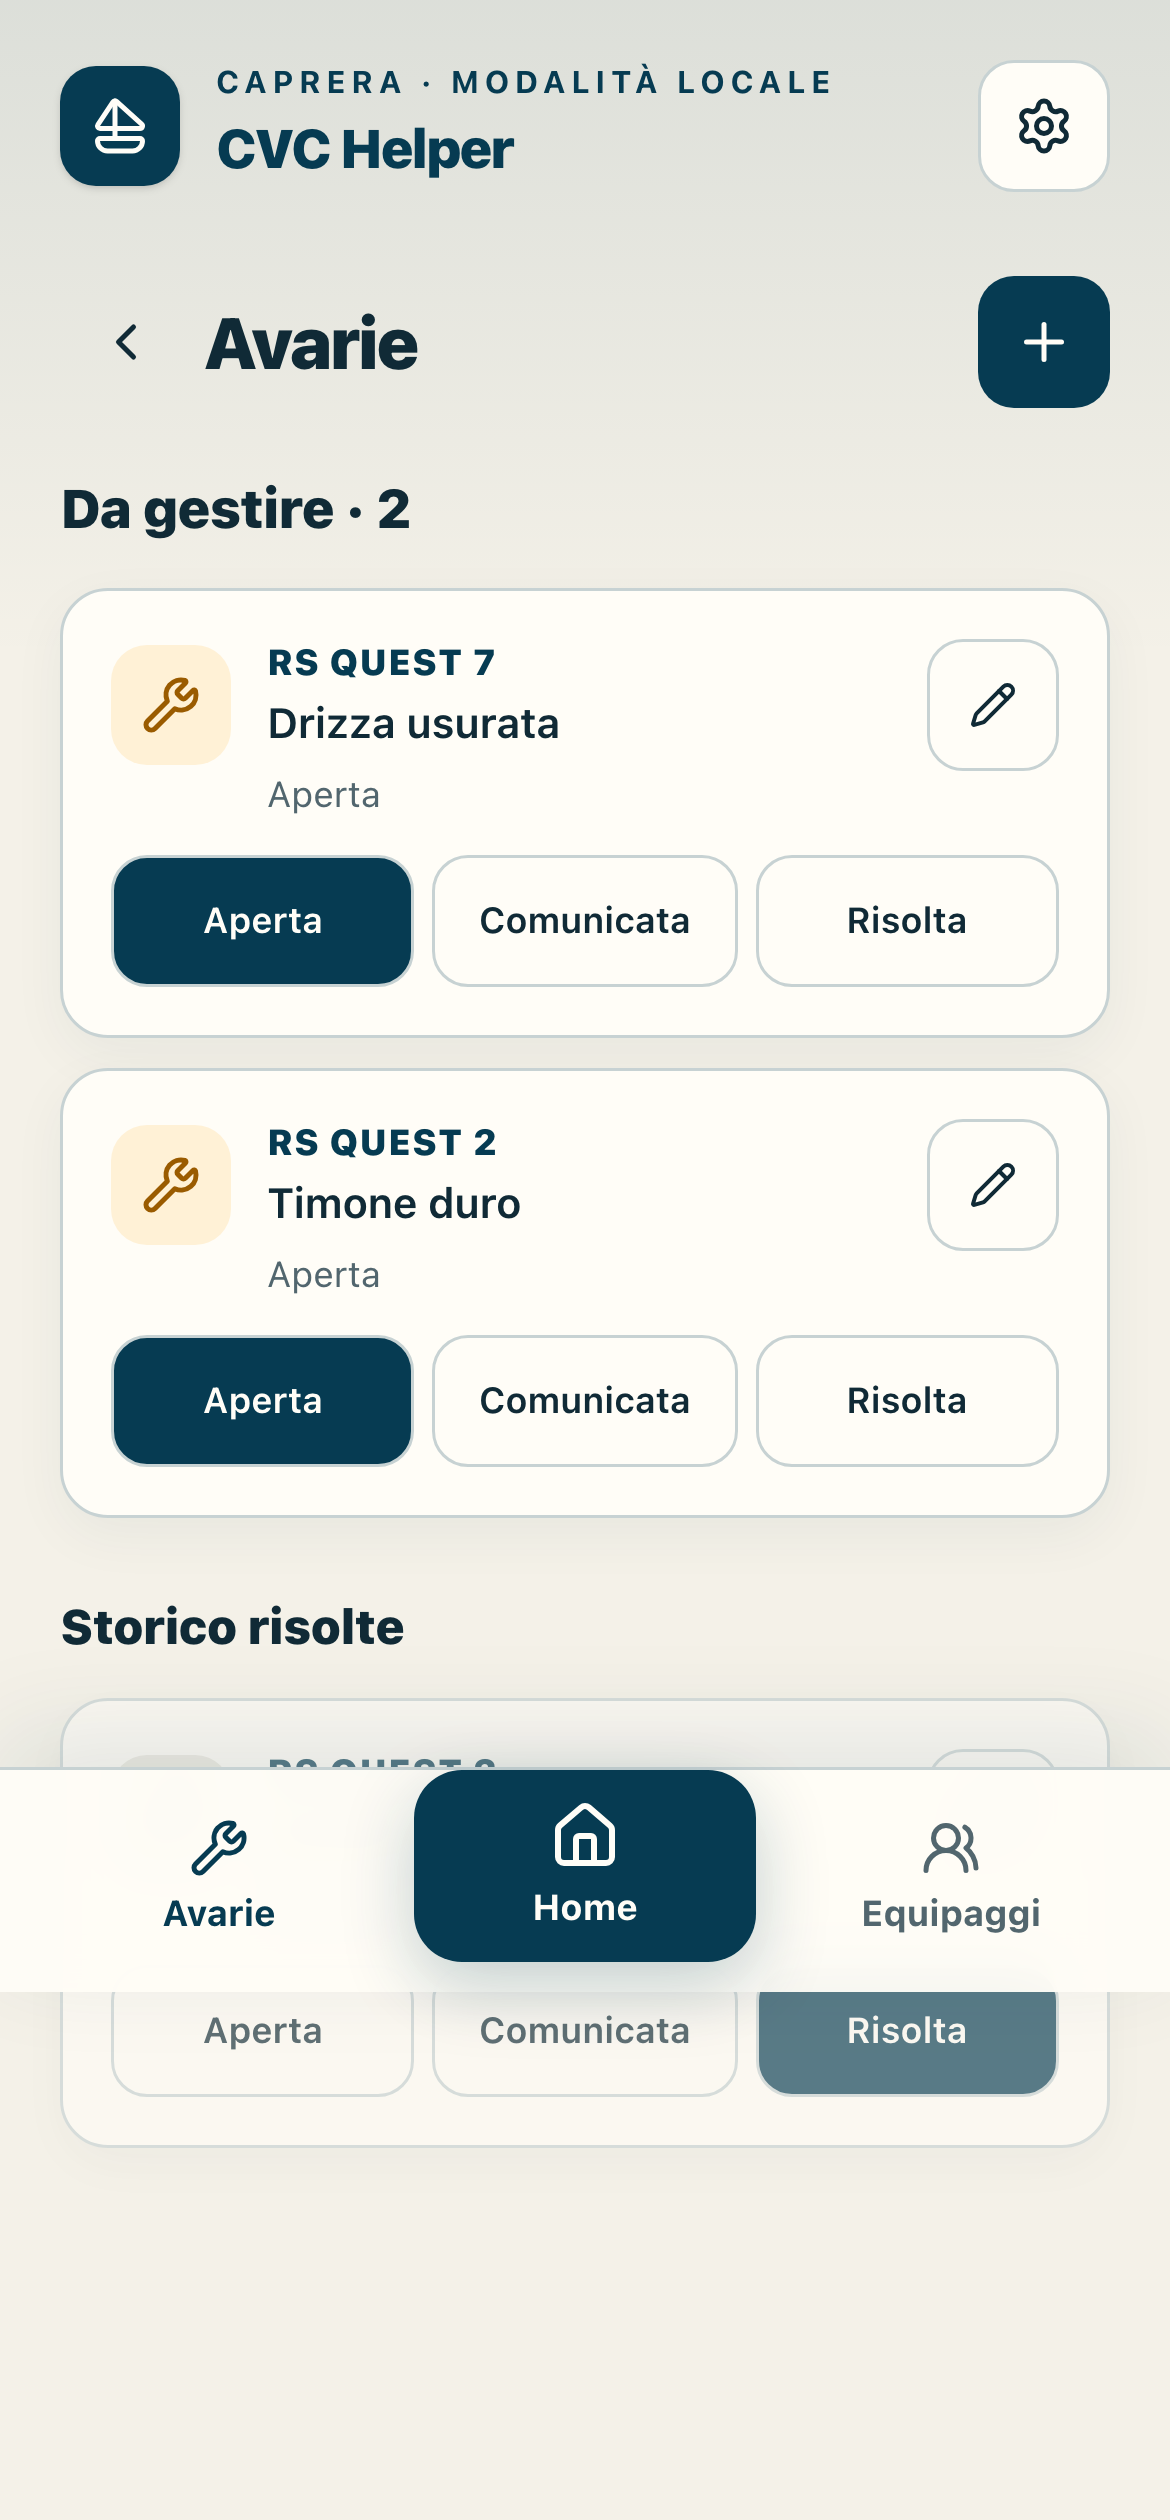
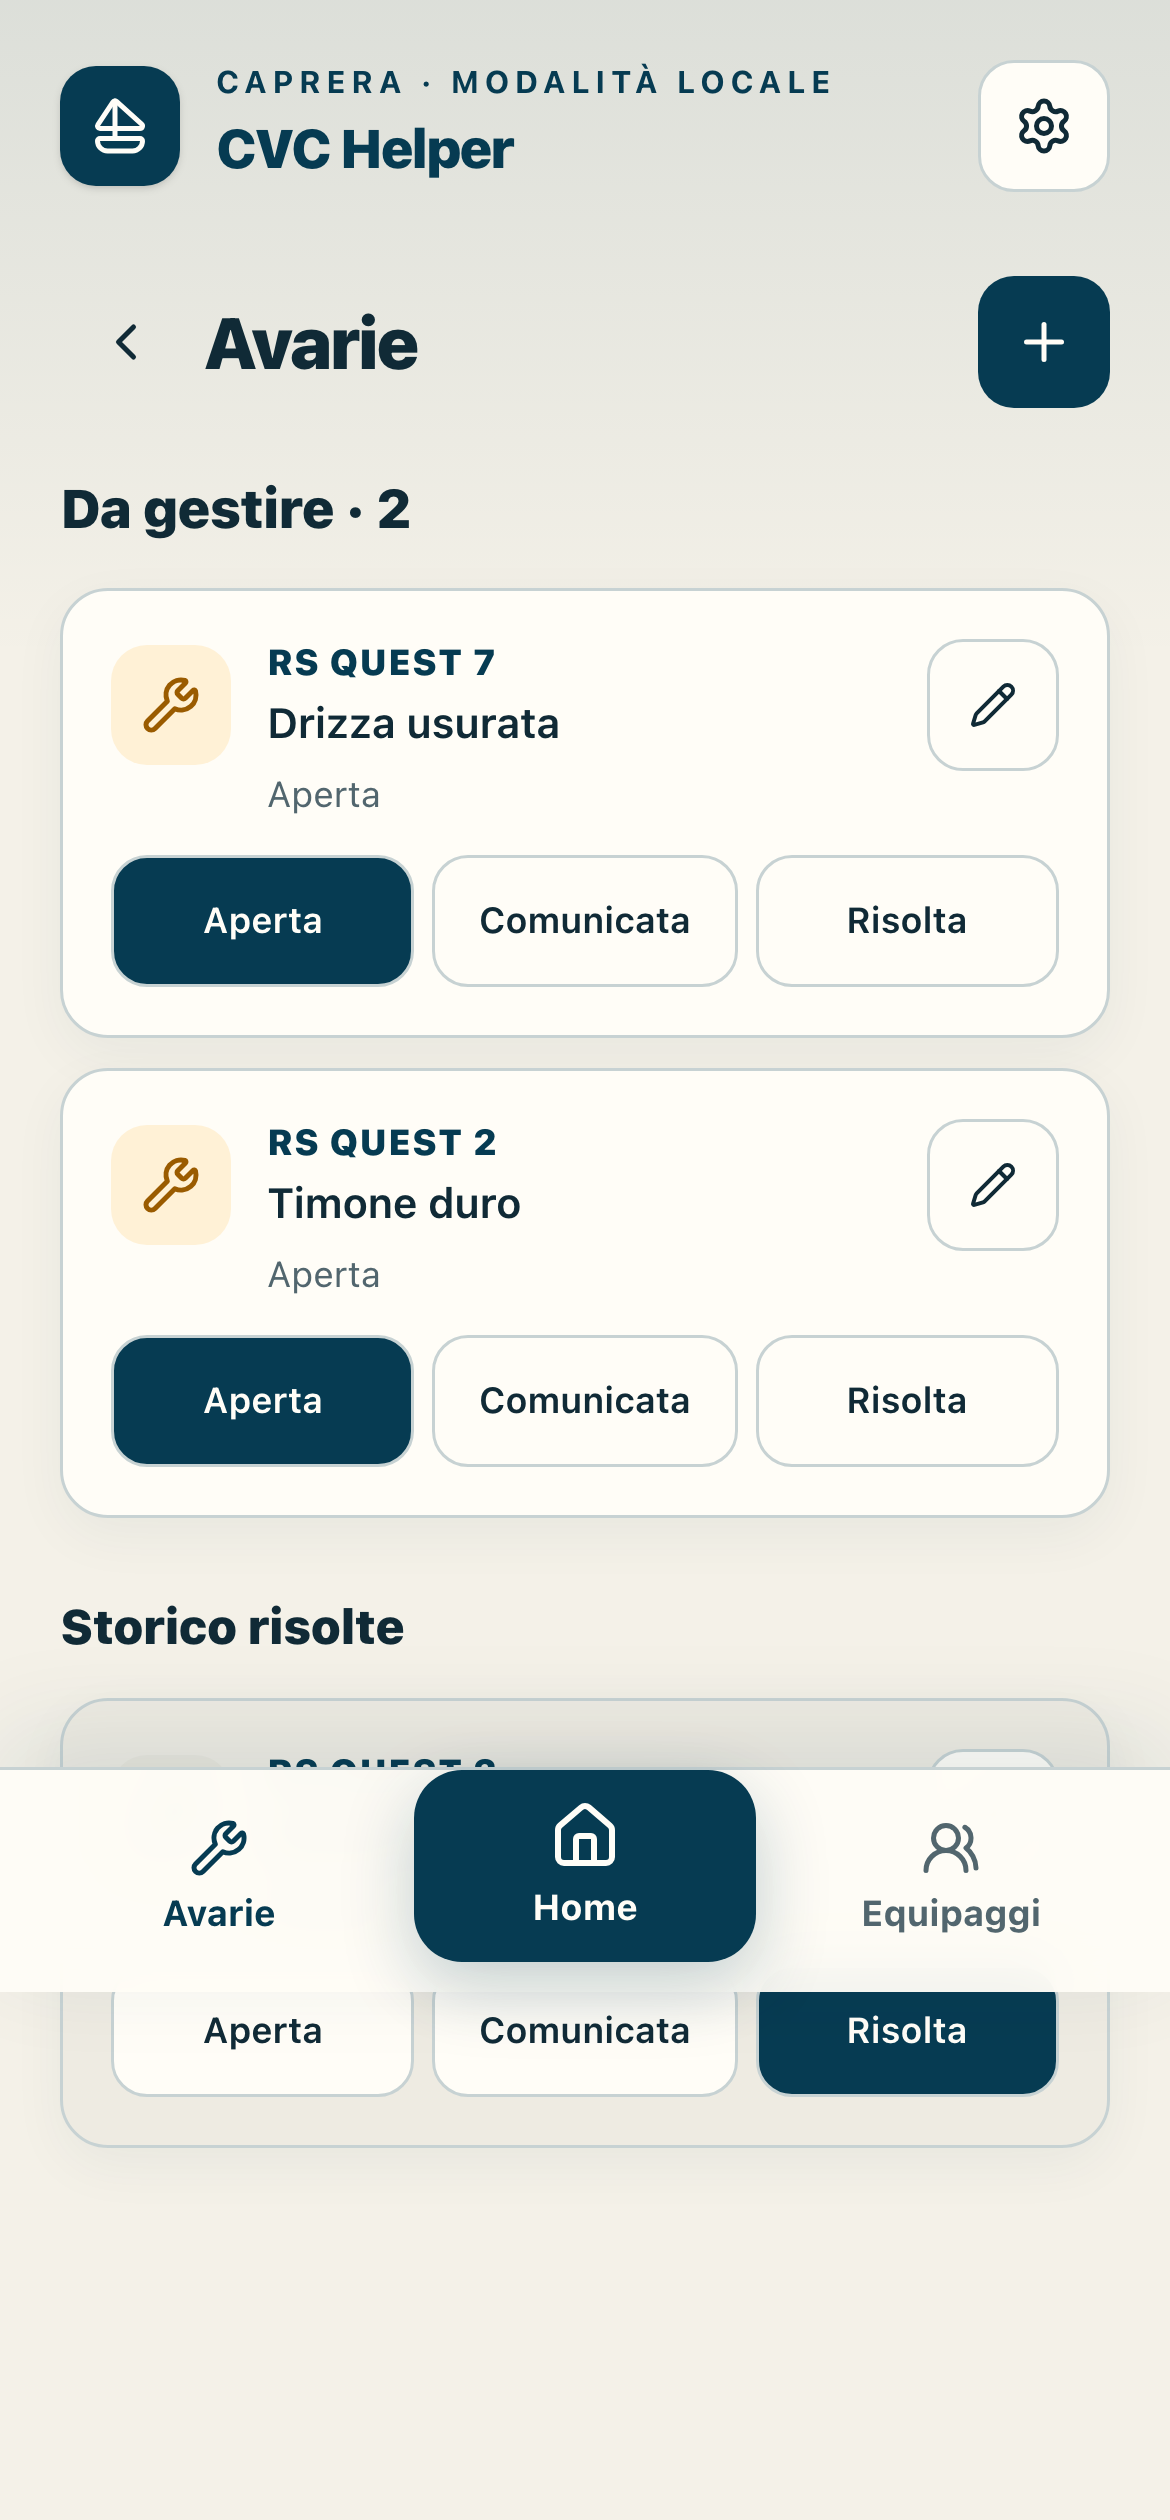
test: complete G2 boat management gate

Changed region(s): [[0.6462, 0.7738, 0.9231, 0.8357], [0.4923, 0.8048, 0.5231, 0.8357], [0.1846, 0.8048, 0.2154, 0.8357]]

diff --git a/src/domain/invariants.test.ts b/src/domain/invariants.test.ts
@@ -150,4 +150,62 @@ describe("course-state invariants", () => {
       ]),
     )
   })
+
+  it("accepts an unavailable boat with simultaneous open and resolved faults", () => {
+    expect(
+      validateBoatRecords(
+        [
+          {
+            id: "boat-quest-2",
+            type: "RS Quest",
+            number: "2",
+            availability: "unavailable",
+          },
+        ],
+        [
+          {
+            id: "fault-open",
+            boatId: "boat-quest-2",
+            description: "Timone duro",
+            state: "open",
+            createdAt: "2026-08-29T10:00:00.000Z",
+            updatedAt: "2026-08-29T10:00:00.000Z",
+          },
+          {
+            id: "fault-resolved",
+            boatId: "boat-quest-2",
+            description: "Scotta sostituita",
+            state: "resolved",
+            createdAt: "2026-08-29T09:00:00.000Z",
+            updatedAt: "2026-08-29T11:00:00.000Z",
+          },
+        ],
+      ),
+    ).toEqual([])
+  })
+
+  it("rejects parseable but non-ISO fault timestamps", () => {
+    expect(
+      validateBoatRecords(
+        [
+          {
+            id: "boat-1",
+            type: "RS Quest",
+            number: "2",
+            availability: "available",
+          },
+        ],
+        [
+          {
+            id: "fault-1",
+            boatId: "boat-1",
+            description: "Timone duro",
+            state: "open",
+            createdAt: "August 29, 2026 10:00:00 UTC",
+            updatedAt: "August 29, 2026 11:00:00 UTC",
+          },
+        ],
+      ),
+    ).toEqual([expect.objectContaining({ code: "invalid-fault-timestamp" })])
+  })
 })

diff --git a/tests/e2e/boats.spec.ts b/tests/e2e/boats.spec.ts
@@ -51,7 +51,7 @@ test("manages boats and simultaneous faults through detail and global entry", as
     name: /RS Quest 2, Non disponibile, 1 non risolta/,
   })
   await expect(unavailableBoat).toBeVisible()
-  await expect(unavailableBoat).toHaveClass(/opacity-65/)
+  await expect(unavailableBoat).toHaveClass(/bg-muted\/70/)
 
   await page
     .getByRole("button", { name: /Laser Vago 9, Nessuna avaria/ })
@@ -81,5 +81,24 @@ test("manages boats and simultaneous faults through detail and global entry", as
       fullPage: true,
       path: path.resolve(".evidence/M6/boats-iphone13.png"),
     })
+    await page.screenshot({
+      path: path.resolve(".evidence/G2/boats-gate-iphone13.png"),
+    })
   }
+
+  await page.getByRole("button", { name: "Home", exact: true }).click()
+  await page.getByRole("button", { name: "Barche", exact: true }).click()
+  const persistedUnavailableBoat = page.getByRole("button", {
+    name: /RS Quest 2, Non disponibile, 1 non risolta/,
+  })
+  await expect(persistedUnavailableBoat).toBeVisible()
+  await expect(page.getByText("Laser Vago 9")).not.toBeVisible()
+  await persistedUnavailableBoat.click()
+  await page.getByRole("button", { name: "Rendi disponibile" }).click()
+  await page.getByRole("button", { name: "Indietro da RS Quest 2" }).click()
+  await expect(
+    page.getByRole("button", {
+      name: /RS Quest 2, Avaria aperta, 1 non risolta/,
+    }),
+  ).toBeVisible()
 })

diff --git a/src/persistence/boats.test.ts b/src/persistence/boats.test.ts
@@ -171,6 +171,9 @@ describe("boat and fault persistence", () => {
   })
 
   it("deletes mistaken boats and their faults atomically", async () => {
+    database.getOptional
+      .mockResolvedValueOnce({ id: "boat-1" })
+      .mockResolvedValueOnce(null)
     await deleteBoat("boat-1", "course-1")
 
     expect(database.writeTransaction).toHaveBeenCalledOnce()
@@ -187,11 +190,25 @@ describe("boat and fault persistence", () => {
   })
 
   it("refuses deletion when a historical crew references the boat", async () => {
-    database.getOptional.mockResolvedValue({ id: "crew-1" })
+    database.getOptional
+      .mockResolvedValueOnce({ id: "boat-1" })
+      .mockResolvedValueOnce({ id: "crew-1" })
 
     await expect(deleteBoat("boat-1", "course-1")).rejects.toThrow(
       "historical crew references",
     )
     expect(database.writeTransaction).not.toHaveBeenCalled()
+  })
+
+  it("does not touch faults when the boat belongs to another course", async () => {
+    await expect(deleteBoat("boat-1", "wrong-course")).rejects.toThrow(
+      "Boat does not belong to course",
+    )
+    expect(database.getOptional).toHaveBeenCalledWith(
+      expect.stringContaining("id = ? AND courseId = ?"),
+      ["boat-1", "wrong-course"],
+    )
+    expect(database.writeTransaction).not.toHaveBeenCalled()
+    expect(database.execute).not.toHaveBeenCalled()
   })
 })

diff --git a/src/features/boats/FaultCard.tsx b/src/features/boats/FaultCard.tsx
@@ -58,7 +58,7 @@ export function FaultCard({
 
   return (
     <article
-      className={`rounded-2xl border bg-card p-4 shadow-[0_6px_18px_rgb(6_59_82/0.05)] ${fault.state === "resolved" ? "opacity-65" : ""}`}
+      className={`rounded-2xl border p-4 shadow-[0_6px_18px_rgb(6_59_82/0.05)] ${fault.state === "resolved" ? "bg-muted/50" : "bg-card"}`}
     >
       <div className="flex items-start gap-3">
         <span
@@ -75,7 +75,7 @@ export function FaultCard({
           {editing ? (
             <textarea
               aria-label={`Modifica descrizione ${fault.description}`}
-              className="mt-1 min-h-20 w-full resize-y rounded-xl border bg-card px-3 py-2 text-sm leading-6 outline-none focus-visible:border-primary focus-visible:ring-3 focus-visible:ring-ring/30"
+              className="mt-1 min-h-20 w-full resize-y rounded-xl border bg-card px-3 py-2 text-base leading-6 outline-none focus-visible:border-primary focus-visible:ring-3 focus-visible:ring-ring/30"
               onChange={(event) => setDescription(event.target.value)}
               value={description}
             />

diff --git a/src/domain/invariants.ts b/src/domain/invariants.ts
@@ -63,6 +63,19 @@ function hasValue<T extends readonly string[]>(values: T, value: string) {
   return values.includes(value as T[number])
 }
 
+function parseIsoTimestamp(value: string | null | undefined) {
+  if (
+    typeof value !== "string" ||
+    !/^\d{4}-\d{2}-\d{2}T\d{2}:\d{2}:\d{2}\.\d{3}Z$/.test(value)
+  ) {
+    return Number.NaN
+  }
+  const parsed = Date.parse(value)
+  return Number.isFinite(parsed) && new Date(parsed).toISOString() === value
+    ? parsed
+    : Number.NaN
+}
+
 function duplicateIds(
   collection: string,
   records: Array<{ id: string }>,
@@ -214,8 +227,8 @@ export function validateCourseState(
         message: "Fault description cannot be empty",
       })
     }
-    const createdAt = Date.parse(fault.createdAt ?? "")
-    const updatedAt = Date.parse(fault.updatedAt ?? "")
+    const createdAt = parseIsoTimestamp(fault.createdAt)
+    const updatedAt = parseIsoTimestamp(fault.updatedAt)
     if (!Number.isFinite(createdAt) || !Number.isFinite(updatedAt)) {
       issues.push({
         code: "invalid-fault-timestamp",

diff --git a/src/features/boats/BoatManagement.tsx b/src/features/boats/BoatManagement.tsx
@@ -243,7 +243,7 @@ function BoatList({
         return (
           <button
             aria-label={`${boat.type} ${boat.number}, ${copy.label}${openCount ? `, ${openCount} ${openCount === 1 ? "non risolta" : "non risolte"}` : ""}`}
-            className={`flex min-h-18 items-center gap-3 rounded-2xl border p-3.5 text-left shadow-[0_6px_18px_rgb(6_59_82/0.05)] outline-none transition-colors hover:bg-muted focus-visible:ring-3 focus-visible:ring-ring/40 ${state === "unavailable" ? "bg-muted/70 text-muted-foreground opacity-65" : "bg-card"}`}
+            className={`flex min-h-18 items-center gap-3 rounded-2xl border p-3.5 text-left shadow-[0_6px_18px_rgb(6_59_82/0.05)] outline-none transition-colors hover:bg-muted focus-visible:ring-3 focus-visible:ring-ring/40 ${state === "unavailable" ? "bg-muted/70 text-muted-foreground" : "bg-card"}`}
             key={boat.id}
             onClick={() => onOpen(boat.id)}
             type="button"

diff --git a/src/persistence/boats.ts b/src/persistence/boats.ts
@@ -153,6 +153,11 @@ export async function setBoatAvailability(
 
 export async function deleteBoat(boatId: string, courseId: string) {
   await db.init()
+  const ownedBoat = await db.getOptional<{ id: string }>(
+    "SELECT id FROM boats WHERE id = ? AND courseId = ? LIMIT 1",
+    [boatId, courseId],
+  )
+  if (!ownedBoat) throw new Error("Boat does not belong to course")
   const crewReference = await db.getOptional<{ id: string }>(
     "SELECT id FROM crews WHERE boatId = ? LIMIT 1",
     [boatId],

diff --git a/src/features/boats/BoatManagement.test.tsx b/src/features/boats/BoatManagement.test.tsx
@@ -140,11 +140,8 @@ describe("BoatManagement", () => {
     const row = await screen.findByRole("button", {
       name: "RS Quest 7, Non disponibile",
     })
-    expect(row).toHaveClass(
-      "bg-muted/70",
-      "text-muted-foreground",
-      "opacity-65",
-    )
+    expect(row).toHaveClass("bg-muted/70", "text-muted-foreground")
+    expect(row).not.toHaveClass("opacity-65")
     await user.click(row)
     expect(screen.getByText("Non disponibile", { exact: true })).toBeVisible()
   })

diff --git a/04_IMPLEMENTATION_PLAN.md b/04_IMPLEMENTATION_PLAN.md
@@ -428,7 +428,7 @@ Implement course boat setup, availability, faults, fault history and Avarie entr
 ## G2 — Boat Management Gate
 
 **Category:** INTEGRATION_GATE  
-**Status:** PENDING
+**Status:** COMPLETE
 
 ### Goal
 
@@ -455,10 +455,17 @@ At minimum:
 
 ### Completion log
 
-- Evidence:
-- Decisions:
-- Known limitations:
-- Git checkpoint:
+- Evidence: official verification PASS (18 test files / 84 tests, domain and
+  repository checks, production build, 16 E2E journeys); integrated boat gate
+  passed on Pixel 7 and iPhone 13; functional and field/mobile reviews PASS;
+  iPhone viewport screenshot inspected.
+- Decisions: the gate asserts persisted unavailability and deletion after
+  reload, then re-enables the boat and confirms unresolved faults still derive
+  its warning state; deletion verifies course ownership before touching history.
+- Known limitations: iPhone automation uses Chromium with the iPhone device
+  profile; native WebKit behavior is reserved for the dedicated M14 mobile and
+  accessibility gate.
+- Git checkpoint: `test: complete G2 boat management gate`.
 
 ---
 

diff --git a/.evidence/G2/field-ux-review.md b/.evidence/G2/field-ux-review.md
@@ -1,0 +1,26 @@
+# G2 field/mobile UX review
+
+**Verdict:** PASS
+
+## Blockers
+
+None.
+
+## Findings and remediation
+
+- Unavailable boats remain unmistakably muted without reducing essential text contrast.
+- Resolved faults are visually secondary through background treatment while remaining fully readable.
+- Fault-edit text is 16 px, avoiding native iPhone focus zoom.
+- Status never relies on color alone; labels and unresolved counts accompany green/yellow/grey treatments.
+- Touch targets, density, fixed-navigation padding, configuration, and both fault-entry paths are suitable for hurried phone use.
+
+No field/mobile findings remain for G2. Native WebKit execution remains scheduled for M14.
+
+## Evidence inspected
+
+- Authoritative M6/G2 product and mobile rules.
+- Boat/fault UI and updated component/browser assertions.
+- `.evidence/G2/boats-gate-iphone13.png`.
+- Focused verification: 4 files / 28 tests PASS.
+- G2 Playwright scenario: Pixel 7 and iPhone 13 PASS, 2/2.
+- `git diff --check`: PASS.

diff --git a/.evidence/G2/functional-review.md b/.evidence/G2/functional-review.md
@@ -1,0 +1,23 @@
+# G2 functional review
+
+**Verdict:** PASS
+
+## Blockers
+
+None.
+
+## Findings and remediation
+
+- Course-safe deletion was strengthened: `deleteBoat` now verifies `boatId + courseId` ownership before any fault/history mutation, with a wrong-course regression test.
+- The browser journey now proves unavailable state and mistaken-boat deletion persist across reload, then re-enables the boat and confirms the remaining open fault restores the derived warning state.
+- Timestamp invariants now require canonical ISO output and reject merely parseable non-ISO values.
+
+No functional findings remain.
+
+## Evidence inspected
+
+- Authoritative M6/G2 rules and commit `d5383a2`.
+- Canonical rules, persistence, invariants, UI integration and boat/fault tests.
+- Focused verification: 4 files / 28 tests PASS.
+- G2 Playwright scenario: Pixel 7 and iPhone 13 PASS, 2/2.
+- `git diff --check`: PASS.
